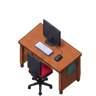
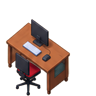
SACEM : point info 75 %, grand tapis, tables et cloison infranchissables

diff --git a/tools/sacem/build_entities.py b/tools/sacem/build_entities.py
@@ -1,8 +1,9 @@
 #!/usr/bin/env python3
 """
 Collection d'entités SACEM pour l'éditeur de map WorkAdventure, à partir des détourages Photoshop de David
-(échelle master 1500 px). Réduction à 0,72 (LANCZOS, comme le bâtiment), canevas arrondis au multiple de 32
-(objet centré, calé en bas), grille de collision sur la bande de base de l'objet (pieds / socle), depthOffset.
+(échelle master 1500 px). Chaque objet est rééchantillonné depuis l'export master (LANCZOS) : 0,72 comme le
+bâtiment, puis 65 % (mobilier dessiné à l'échelle de l'architecture) ou une échelle propre (SCALE).
+Canevas arrondis au multiple de 32 (objet calé en bas), grille de collision, depthOffset.
 Usage : python3 tools/sacem/build_entities.py [dossier des exports] [dossier de sortie] [planche de contrôle]
 Sorties : <out>/<fichier>.png, <out>/sacem.json, planche de contrôle
 """
@@ -10,6 +11,7 @@ from PIL import Image, ImageDraw, ImageFont
 import numpy as np, json, os, sys, unicodedata
 S, T = 0.72, 32
 FAM = {"siege": 0.65, "plante": 0.65, "sol": 0.65}      # réduction supplémentaire (David, 10/09 : 65 % pour tout ; le mobilier du PSD est à l'échelle de l'architecture, pas du woka)
+SCALE = {"Point info (accueil)": 0.75, "Tapis rond (grand)": 0.85}   # échelles propres (David, 10/09), à la place de FAM
 HERE = os.path.dirname(os.path.abspath(__file__))
 SRC = sys.argv[1] if len(sys.argv) > 1 else os.path.expanduser("~/Downloads/Objets séparés")          # exports Photoshop de David (SACEM-Umani_0001s_00NN_<nom>.png)
 OUT = sys.argv[2] if len(sys.argv) > 2 else os.path.join(HERE, "..", "..", "public", "entities", "sacem")
@@ -17,13 +19,14 @@ SHEET = sys.argv[3] if len(sys.argv) > 3 else os.path.join(OUT, "_controle.png")
 os.makedirs(OUT, exist_ok=True)
 
 # (fichier source, nom affiché, direction, tags, collision, depth)
-#   collision : "base" = ligne de base par colonne ; "socle" = bande au-dessus du point le plus bas ; "none" = franchissable
-#   depth : "sol" (sous les wokas), "assise" (le woka qui s'y tient passe devant : sièges, table basse), "base" (tri sur le bas de l'image), "ligne" (tri sur la ligne moyenne de la base, cloisons en diagonale)
+#   collision : "base" = ligne de base par colonne ; "socle" = bande au-dessus du point le plus bas ; "ligne" = polyligne LINE (pied d'une cloison) ; "none" = franchissable
+#   depth : "sol" (sous les wokas), "assise" (le woka qui s'y tient passe devant : sièges), "base" (tri sur le bas de l'image)
 OBJ = [
-    ("0000_open-space", "Cloison vitrée", "Down", ["sacem", "cloison", "vitre"], "base", "ligne"),
-    ("0001_table", "Table basse", "Down", ["sacem", "table"], "none", "assise"),
+    ("0000_open-space", "Cloison vitrée", "Down", ["sacem", "cloison", "vitre"], "ligne", "base"),
+    ("0001_table", "Table basse", "Down", ["sacem", "table"], "socle", "base"),
     ("0002_point-info", "Point info (accueil)", "Down", ["sacem", "accueil", "comptoir"], "base", "base"),
     ("0003_tapis", "Tapis rond", "Down", ["sacem", "tapis"], "none", "sol"),
+    ("0003_tapis", "Tapis rond (grand)", "Down", ["sacem", "tapis"], "none", "sol"),
     ("0004_bureau", "Bureau", "Down", ["sacem", "bureau"], "base", "base"),
     ("0005_canapé", "Canapé", "Right", ["sacem", "canapé", "salon"], "none", "assise"),
     ("0008_fauteuil-3", "Fauteuil", "Down", ["sacem", "fauteuil", "salon"], "none", "assise"),
@@ -40,6 +43,9 @@ OBJ = [
     ("0011_plante-7", "Plante 7", "Down", ["sacem", "plante"], "socle", "base"),
     ("0018_machine-café", "Machine à café", "Down", ["sacem", "machine", "café"], "socle", "base"),
 ]
+# pied des cloisons, en pixels de l'export master : la cloison vitrée est un chevron « < » (deux panneaux, sommet à gauche) ;
+# la base du panneau du haut est cachée par le panneau du bas, d'où une polyligne explicite (mesurée sur le détourage)
+LINE = {"Cloison vitrée": [(237, 106), (3, 327), (155, 456)]}
 BAND = 20            # bande de base : 20 px au-dessus du bas de chaque colonne (≈ 0,6 tuile)
 COV_BAND = 0.10      # tuile bloquée si la bande couvre >= 10 % de la tuile
 
@@ -47,31 +53,54 @@ def slug(s):
     s = unicodedata.normalize("NFKD", s).encode("ascii", "ignore").decode()
     return "".join(c if c.isalnum() else "-" for c in s.lower()).strip("-").replace("--", "-")
 
+def line_grid(pts, rows, cols):
+    """Tuiles traversées par la polyligne (échantillonnage au pixel), rendues 4-connexes : pas de passage en diagonale."""
+    g = [[0] * cols for _ in range(rows)]; prev = None
+    for (x0, y0), (x1, y1) in zip(pts, pts[1:]):
+        n = int(max(abs(x1 - x0), abs(y1 - y0))) * 2 + 2
+        for t in np.linspace(0, 1, n):
+            x, y = x0 + (x1 - x0) * t, y0 + (y1 - y0) * t
+            c, r = min(cols - 1, max(0, int(x // T))), min(rows - 1, max(0, int(y // T)))
+            if prev and prev[0] != r and prev[1] != c: g[prev[0]][c] = 1
+            g[r][c] = 1; prev = (r, c)
+    return g
+
 coll = []; cells = []
 font = ImageFont.truetype("/usr/share/fonts/truetype/dejavu/DejaVuSans.ttf", 11)
 for src, name, direction, tags, collision, depth in OBJ:
     path = [p for p in os.listdir(SRC) if src in p][0]
-    im = Image.open(os.path.join(SRC, path)).convert("RGBA")
+    im0 = Image.open(os.path.join(SRC, path)).convert("RGBA")
     fam = "plante" if any(t in ("plante", "machine") for t in tags) else ("sol" if any(t in ("tapis", "cloison") for t in tags) else "siege")
-    k = S * FAM[fam]
-    im = im.resize((max(1, round(im.width * k)), max(1, round(im.height * k))), Image.LANCZOS)
+    k = S * SCALE.get(name, FAM[fam])
+    im = im0.resize((max(1, round(im0.width * k)), max(1, round(im0.height * k))), Image.LANCZOS)
     # nettoyage : pixels quasi transparents -> transparents (évite les halos)
     a = np.asarray(im).copy(); a[a[..., 3] < 8] = 0; im = Image.fromarray(a)
     cw = -(-im.width // T) * T; ch = -(-im.height // T) * T
     rows, cols = ch // T, cw // T
     def make(ox):
-        canvas = Image.new("RGBA", (cw, ch), (0, 0, 0, 0)); canvas.alpha_composite(im, (ox, ch - im.height))   # calé en bas
+        oy = ch - im.height                                  # calé en bas
+        canvas = Image.new("RGBA", (cw, ch), (0, 0, 0, 0)); canvas.alpha_composite(im, (ox, oy))
         A = np.asarray(canvas)[..., 3] > 40
         grid = None
         if collision in ("base", "socle"):
             band = np.zeros_like(A)
-            if collision == "socle":                       # objet à un seul socle (plante, machine) : bande au-dessus du point le plus bas
+            if collision == "socle":                       # objet à un seul socle (plante, machine, table) : bande au-dessus du point le plus bas
                 yb = np.where(A.any(axis=1))[0].max(); band[max(0, yb - BAND + 1):yb + 1] = A[max(0, yb - BAND + 1):yb + 1]
-            else:                                          # ligne de base par colonne (cloison en diagonale, bureau + chaise, comptoir)
+            else:                                          # ligne de base par colonne (bureau + chaise, comptoir)
                 for x in range(cw):
                     ys = np.where(A[:, x])[0]
                     if len(ys): band[max(0, ys.max() - BAND + 1):ys.max() + 1, x] = True
             grid = [[1 if band[r*T:(r+1)*T, c*T:(c+1)*T].mean() >= COV_BAND else 0 for c in range(cols)] for r in range(rows)]
+        elif collision == "ligne":
+            grid = line_grid([(x * k + ox, y * k + oy) for x, y in LINE[name]], rows, cols)
+        if grid is not None:                               # pas de passage en diagonale entre deux tuiles bloquées : on ajoute la voisine la plus couverte par l'objet
+            cov = lambda r, c: A[r*T:(r+1)*T, c*T:(c+1)*T].mean()
+            for r in range(rows - 1):
+                for c in range(cols):
+                    for dc in (-1, 1):
+                        if 0 <= c + dc < cols and grid[r][c] and grid[r+1][c+dc] and not grid[r][c+dc] and not grid[r+1][c]:
+                            if cov(r, c + dc) >= cov(r + 1, c): grid[r][c+dc] = 1
+                            else: grid[r+1][c] = 1
         return canvas, A, grid
     # position horizontale : celle qui bloque le moins de tuiles (à égalité, la plus centrée)
     mid = (cw - im.width) // 2
@@ -85,9 +114,6 @@ for src, name, direction, tags, collision, depth in OBJ:
     n, ox, canvas, A, grid = best
     if depth == "sol": dz = -(ch + 32)
     elif depth == "assise": dz = -ch                     # tri sur le haut du canevas : un woka dont les pieds sont dans le siège est dessiné dessus
-    elif depth == "ligne":
-        yb = [np.where(A[:, x])[0].max() for x in range(cw) if A[:, x].any()]
-        dz = -int(round(ch - float(np.mean(yb))))
     else: dz = 0
     fname = f"{slug(name)}-{direction.lower()}.png"
     canvas.save(os.path.join(OUT, fname))
@@ -106,6 +132,7 @@ for src, name, direction, tags, collision, depth in OBJ:
         for r in range(rows):
             for c in range(cols):
                 if grid[r][c]: d.rectangle((c*T, r*T, c*T+T-1, r*T+T-1), fill=(255, 0, 0, 80), outline=(255, 0, 0, 200))
+    if name in LINE: d.line([(x * k + ox, y * k + ch - im.height) for x, y in LINE[name]], fill=(0, 200, 0, 220), width=2)
     d.line((0, ch + dz - 1, cw, ch + dz - 1), fill=(0, 90, 255, 220), width=2)
     bg.alpha_composite(ov)
     lab = Image.new("RGBA", (max(cw, 120), ch + 18), (255, 255, 255, 255)); lab.alpha_composite(bg, (0, 0))

diff --git a/tools/sacem/README.md b/tools/sacem/README.md
@@ -53,8 +53,8 @@ peintures étendues (ou garder le dossier `tilesets/sacem-test/` comme tilesets 
 
 Générée par `tools/sacem/build_entities.py` à partir des détourages de David (`~/Downloads/Objets séparés`, échelle master 1500 px) :
 `python3 tools/sacem/build_entities.py` (options : dossier des exports, dossier de sortie, planche de contrôle).
-Règles : réduction 0,72 × 0,65 = 0,47 (LANCZOS ; le mobilier du PSD est à l'échelle de l'architecture, 65 % validé par David face aux wokas), objet calé en bas de son canevas, position horizontale choisie pour bloquer le moins de tuiles ;
-collision = bande de base (20 px au-dessus des pieds), uniquement pour cloison, accueil, bureau, plantes, machine à café ;
-canapé, fauteuils, table basse et tapis sont franchissables ; le tapis est sous les wokas (`depthOffset` négatif).
+Règles : chaque objet est rééchantillonné depuis l'export master (LANCZOS) à 0,72 × 0,65 = 0,47 (le mobilier du PSD est à l'échelle de l'architecture, 65 % validé par David face aux wokas), sauf échelles propres `SCALE` (Point info 0,75 ; « Tapis rond (grand) » 0,85, doublon du tapis) ; objet calé en bas de son canevas, position horizontale choisie pour bloquer le moins de tuiles ;
+collision = bande de base (20 px au-dessus des pieds : accueil, bureau), socle (plantes, machine à café, table basse) ou polyligne `LINE` mesurée sur l'export (cloison vitrée : chevron, la base du panneau haut est cachée par le panneau bas) ; les grilles sont rendues 4-connexes (pas de passage en diagonale) ;
+canapé, fauteuils et tapis sont franchissables ; le tapis est sous les wokas, les sièges sous le woka qui s'y tient, la cloison est toujours dessinée devant (`depthOffset`).
 Déclaration dans la room (token map-storage) :
 `curl -X PATCH "https://coolio-town-14561.map-storage.workadventu.re/sacem-test.wam" -H "Authorization: Bearer TOKEN" -H "Content-Type: application/json-patch+json" -d '[{"op":"add","path":"/entityCollections/-","value":{"url":"https://goldeymusic.github.io/Umani.town/entities/sacem/sacem.json","type":"file"}}]'`
